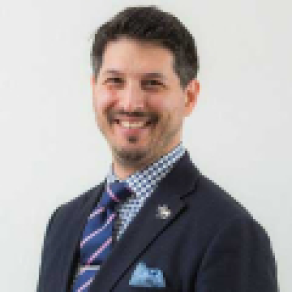
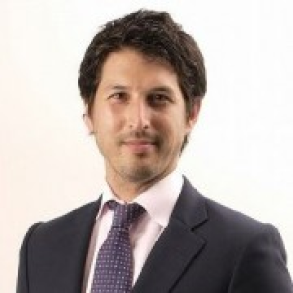
update

diff --git a/HP-project/pages/experts/index.html b/HP-project/pages/experts/index.html
@@ -569,7 +569,7 @@
   <div class="hpp-description">
     <div class="hpp-container">
       <h3>
-        300 Innovative Experts Ready To Help
+        291 More Innovative Research Experts Ready To Help
       </h3>
 
       <p>
@@ -577,7 +577,67 @@
         members. Our rigorous hiring process means that even then, only accept 5% of applicants are accepted. This means
         that your project will receive personalized attention and solutions that are truly tailored to your needs.
       </p>
+    </div>
+  </div>
 
+  <div class="hpp-links">
+    <div class="hpp-container">
+      <ul>
+        <li>
+          <a href="https://stg.edanz.com/content/research-study-ideas">
+            <img src="https://www.edanz.com/sites/default/files/hpp_12/hpp-links-icon-1.png" alt="">
+
+            Creative Research Ideas
+          </a>
+        </li>
+
+        <li>
+          <a href="https://stg.edanz.com/content/gap-unmet-needs">
+            <img src="https://www.edanz.com/sites/default/files/hpp_12/hpp-links-icon-2.png" alt="">
+
+            Gap & Literature Analyses
+          </a>
+        </li>
+
+        <li>
+          <a href="https://stg.edanz.com/content/literature-reviews-data-extraction">
+            <img src="https://www.edanz.com/sites/default/files/hpp_12/hpp-links-icon-3.png" alt="">
+
+            Systematic Reviews
+          </a>
+        </li>
+
+        <li>
+          <a href="https://stg.edanz.com/content/article-publication-ideas">
+            <img src="https://www.edanz.com/sites/default/files/hpp_12/hpp-links-icon-4.png" alt="">
+
+            Article & Publication Ideas
+          </a>
+        </li>
+
+        <li>
+          <a href="https://stg.edanz.com/content/english-editing-int">
+            <img src="https://www.edanz.com/sites/default/files/hpp_12/hpp-links-icon-5.png" alt="">
+
+            Language Editing & Science Communication
+          </a>
+        </li>
+
+        <li>
+          <a href="https://stg.edanz.com/content/manuscript-development">
+            <img src="https://www.edanz.com/sites/default/files/hpp_12/hpp-links-icon-6.png" alt="">
+
+            Manuscript Development
+          </a>
+        </li>
+      </ul>
+
+      <img src="https://www.edanz.com/sites/default/files/hpp_12/hpp-links-img-1.png" alt="">
+    </div>
+  </div>
+
+  <div class="hpp-description">
+    <div class="hpp-container">
       <h2>
         About Edanz
       </h2>
@@ -601,13 +661,13 @@
             </h3>
 
             <p>
-              Koji is a highly respected figure in the scientific community, and his work has been. He is a passionate
-              advocate for the importance of communication in science, and he is dedicated to helping researchers reach
-              their full potential. Koji was previously President of Springer Japan K.K., and served as Regional Head of
-              Asia Pacific for Springer's Healthcare business unit. Koji joined Edanz as CEO in 2016 with the goal of
-              being able to more directly assist researchers in pursuing their goals in an increasingly complex research
-              landscape. Under his guidance Edanz helps thousands of scientists to conceptualize, plan, execute, and
-              communicate their research.
+              Koji is a highly respected figure in the scientific community. He is a passionate advocate for the
+              importance of communication in science, and he is dedicated to helping researchers reach their full
+              potential. Koji was previously President of Springer Japan and served as Regional Head of Asia Pacific for
+              Springer's Healthcare business unit. Koji joined Edanz as CEO in 2016 with the goal of being able to more
+              directly assist researchers in pursuing their goals in an increasingly complex research landscape. Under
+              his guidance Edanz helps thousands of scientists to conceptualize, plan, execute, and communicate their
+              research.
             </p>
           </div>
         </div>
@@ -615,7 +675,7 @@
 
       <div class="hpp-senior__col">
         <div class="hpp-senior__row row-reverse">
-          <img src="https://www.edanz.com/sites/default/files/hpp-senior-img-2.png" alt="">
+          <img src="https://www.edanz.com/sites/default/files/hpp_12/hpp-senior-img-2.png" alt="">
 
           <div class="hpp-senior__text">
             <h3>
@@ -624,11 +684,34 @@
             </h3>
 
             <p>
-              Tom has over 15 years of experience developing and marketing products and services to support researchers.
-              Tom has a deep understanding of the needs of researchers and has developed a number of innovative products
-              and services to meet those needs. He is passionate about helping researchers communicate their work
-              effectively and reach their full potential. Under his leadership, Edanz has grown to become one of the
-              most respected providers of research support and scientific communication services in the world.
+              Tom has a deep understanding of the needs of researchers and has spent over 15 years developing and
+              marketing a variety of innovative products and services to support researchers. He is passionate about
+              assisting researchers in effectively executing and communicating their work and reaching their full
+              potential. Edanz has grown to become one of the world's most respected providers of research support and
+              scientific communication services under his leadership.
+            </p>
+          </div>
+        </div>
+      </div>
+
+      <div class="hpp-senior__col">
+        <div class="hpp-senior__row">
+          <img src="https://www.edanz.com/sites/default/files/hpp_12/hpp-senior-img-3.png" alt="">
+
+          <div class="hpp-senior__text">
+            <h3>
+              Dr Daniel MacGowan, PhD, CMPP <br>
+              Chief Science Officer
+            </h3>
+
+            <p>
+              Edanz Group's Chief Science Officer is Dr. Daniel McGowan. He has more than 20 years of experience in
+              scientific research and publishing, including a senior research position at Cambridge University and a
+              position as Associate Journal Editor for Nature Reviews Neuroscience. In his role at Edanz, Daniel is
+              responsible for overseeing our entire solutions and services program. This includes working with our team
+              of experts to develop creative and innovative solutions for our customers' needs. Daniel is also a member
+              of our Executive Board, which establishes the strategic direction for the company, the core of which is to
+              provide cutting-edge solutions for the challenges that modern researchers face.
             </p>
           </div>
         </div>
@@ -640,19 +723,19 @@
     <div class="hpp-container">
       <div class="hpp-about__text">
         <h2>
-          About Edanz
+          Who Are We?
         </h2>
 
         <p>
-          We are are comprehensive research support service for the scientific community. This means we are committed to
+          We are a comprehensive research support service for the scientific community. This means we are committed to
           providing innovative solutions to the challenges faced by the international research community, from
           individual researchers and clinicians to large institutions. Edanz helps scientists reach their goals by
           providing guidance and support at every stage of research planning, execution, writing, and publication
           processes.<br>
           <br>
           Edanz Pharma (evidence.edanz.com) supports Medical Affairs teams to plan and execute evidence generation
-          strategies: gap and landscape analyses, publication planning, RWE studies, meta analyses, scientific platform
-          development, manuscript development, congress support, and patient engagement strategies.<br>
+          strategies: gap and landscape analyses, publication planning, RWE studies including database and web surveys,
+          meta analyses, manuscript development, and congress support.<br>
           <br>
           Our teams include researchers, journal editors, peer reviewers, publication consultants, medical writers and
           medical communications specialists.<br>

diff --git a/HP-project/pages/experts/css/styles.css b/HP-project/pages/experts/css/styles.css
@@ -97,7 +97,7 @@ html {
 
 #hpp .hpp-expert {
   margin-top: 8rem;
-  padding-bottom: 5rem;
+  padding-bottom: 7.3rem;
 }
 #hpp .hpp-expert__grid {
   column-count: 3;
@@ -242,21 +242,20 @@ html {
 
 
 #hpp .hpp-description {
-  padding: 0 0 3.5rem;
   text-align: center;
 }
 #hpp .hpp-description h3 {
-  color: #474ba8;
-  font-size: 2.4rem;
+  color: #BA2532;
+  font-size: 3.5rem;
   font-weight: 700;
-  line-height: 6.4rem;
-  margin-bottom: 2.4rem;
+  line-height: 5.8rem;
+  margin-bottom: 3.3rem;
 }
 #hpp .hpp-description p {
-  font-size: 1.4rem;
+  font-size: 2rem;
   font-weight: 400;
-  line-height: 2rem;
-  margin: 0 auto 16rem;
+  line-height: 2.6rem;
+  margin: 0 auto 8.5rem;
   max-width: 87rem;
 }
 #hpp .hpp-description h2 {
@@ -264,6 +263,45 @@ html {
   font-size: 3.5rem;
   font-weight: 700;
   line-height: 3.8rem;
+  margin-bottom: 6rem;
+}
+
+
+#hpp .hpp-links {
+  padding-bottom: 20.7rem;
+}
+#hpp .hpp-links .hpp-container {
+  display: flex;
+  flex-direction: row;
+  align-items: flex-start;
+  justify-content: space-between;
+}
+#hpp .hpp-links ul {
+  margin: 0 .5rem 0 0;
+  padding: 0;
+}
+#hpp .hpp-links ul li {
+  list-style: none;
+  margin-bottom: 2rem;
+}
+#hpp .hpp-links ul li a {
+  color: #474BA8;
+  display: flex;
+  flex-direction: row;
+  align-items: center;
+  font-size: 2.4rem;
+  font-weight: 700;
+  line-height: 5.8rem;
+  text-decoration: none;
+}
+#hpp .hpp-links ul li a img {
+  margin-right: 2rem;
+  height: 6rem;
+  width: 6rem;
+}
+#hpp .hpp-links .hpp-container > img {
+  width: 47rem;
+  max-width: 100%;
 }
 
 
@@ -288,6 +326,7 @@ html {
 }
 #hpp .hpp-senior__row.row-reverse {
   flex-direction: row-reverse;
+  padding-bottom: 8rem;
 }
 #hpp .hpp-senior__row .hpp-senior__text {
   padding-top: 1rem;
@@ -395,6 +434,18 @@ html {
   }
   #hpp .hpp-expert__grid {
     column-count: 1;
+  }
+
+
+  #hpp .hpp-links .hpp-container {
+    flex-direction: column-reverse;
+    align-items: center;
+  }
+  #hpp .hpp-links ul {
+    width: 100%;
+  }
+  #hpp .hpp-links .hpp-container > img {
+    margin-bottom: 2rem;
   }
 
 
